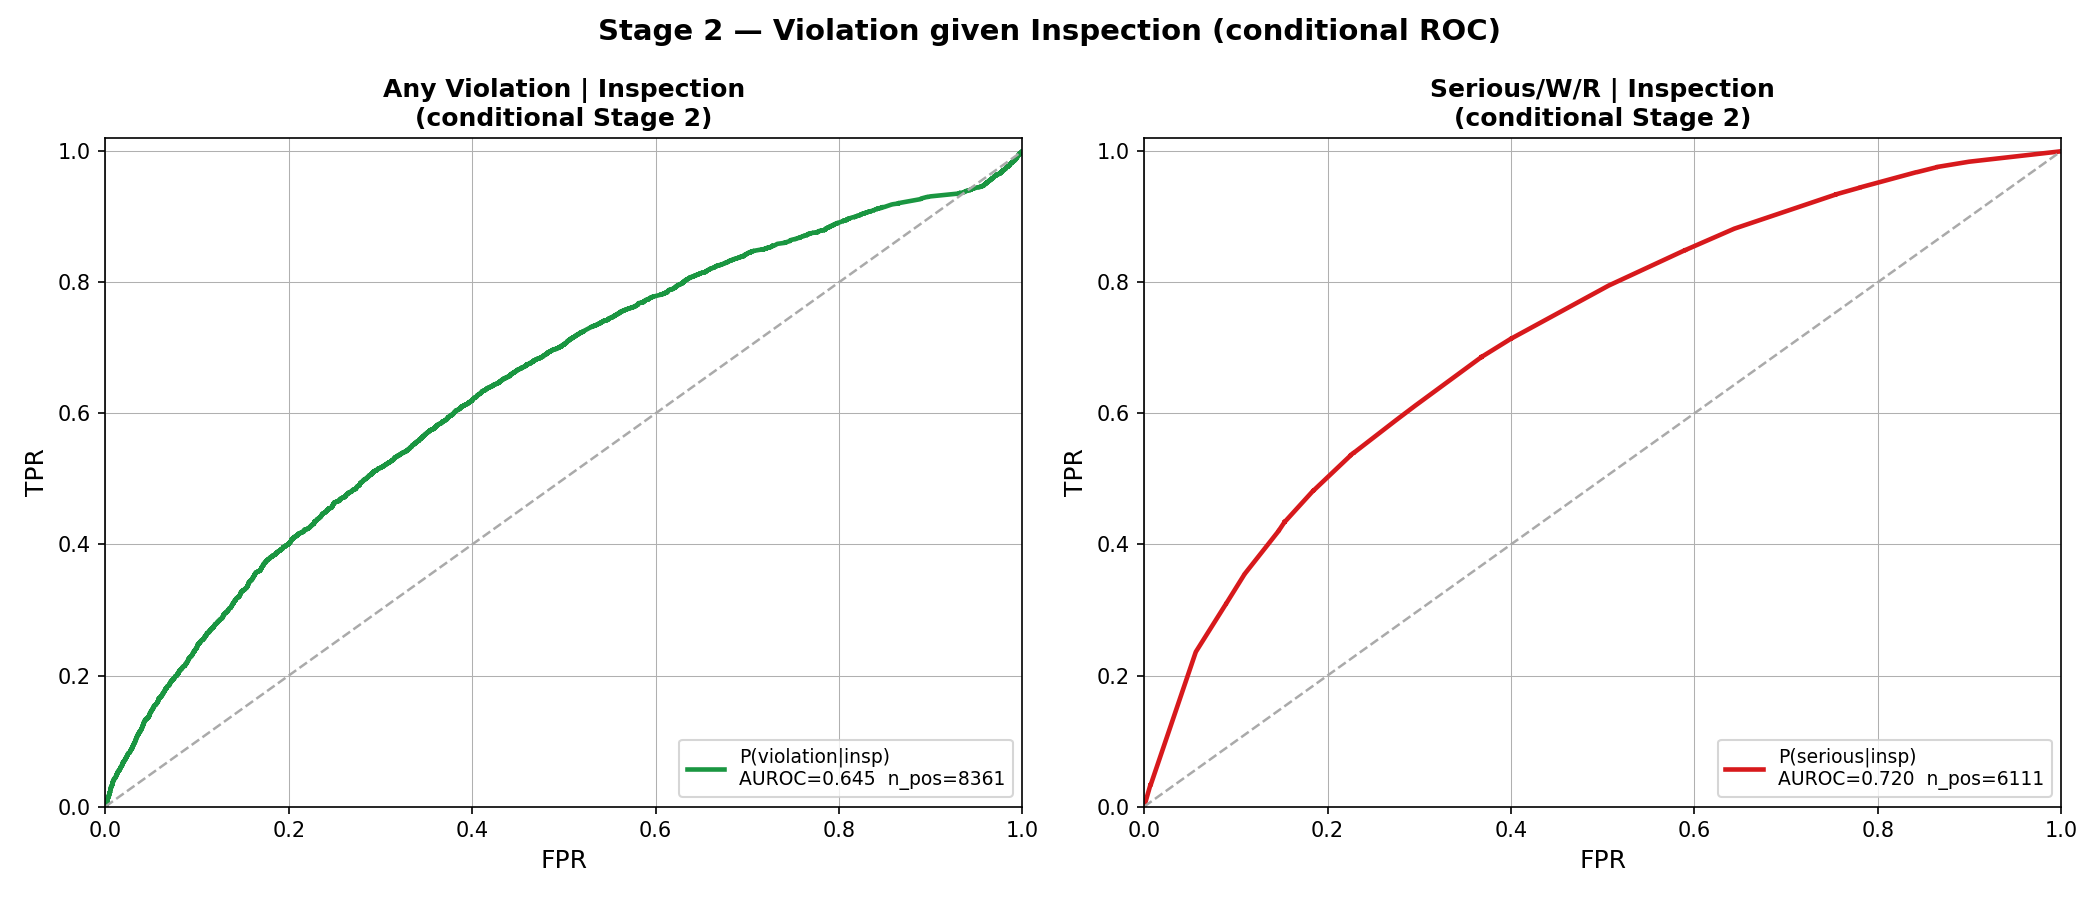
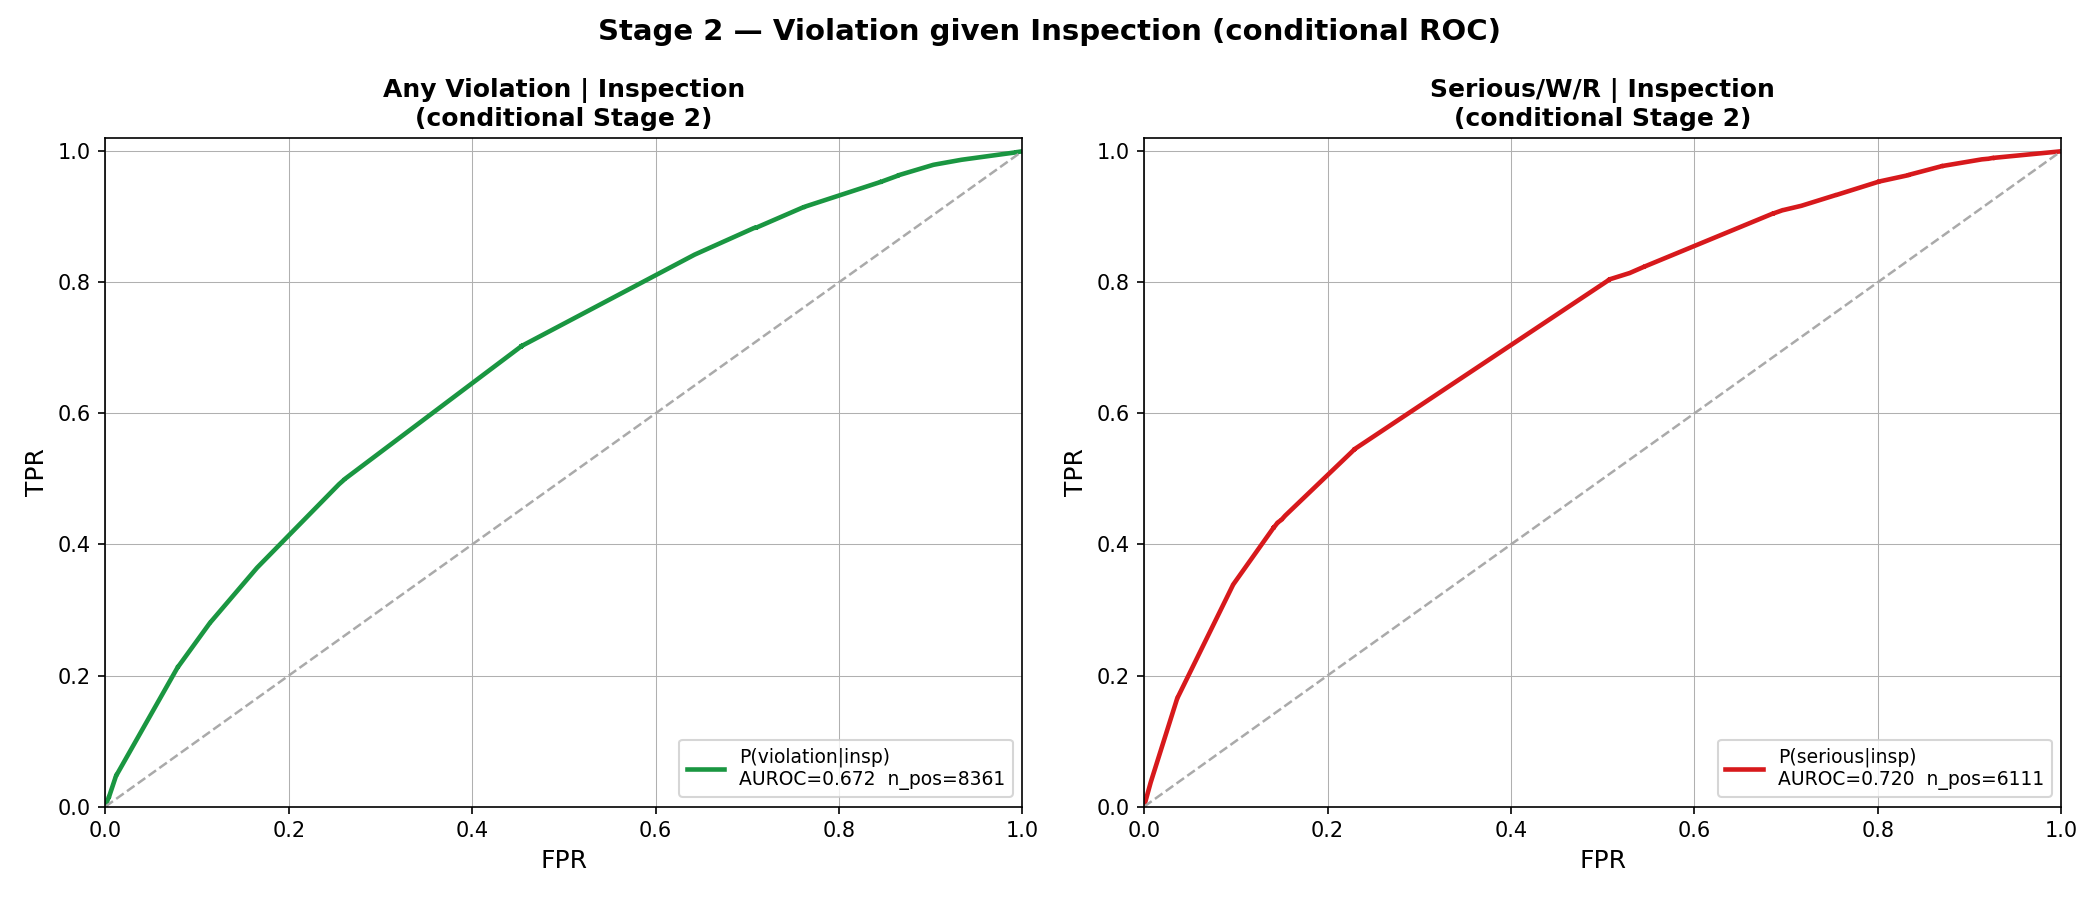
Fix composite formula to use conditional predictions and train WR/penalty heads on inspected-only rows
Agent-Logs-Url: https://github.com/StewThompson/vetManufacturers-/sessions/0607acb5-4264-48f4-9fea-c0a8f3fb56cd

diff --git a/src/scoring/multi_target_scorer.py b/src/scoring/multi_target_scorer.py
@@ -34,15 +34,16 @@ All heads share the same 46-feature input vector (log-transformed).
   gravity_score        = expected_gravity
   p_penalty_ge_p75/p90/p95 = (kept)
 
-Composite risk score formula (v3 — 4-component)
-------------------------------------------------
-  risk_score_raw = w1 * p_inspection_exposure_norm
-                 + w2 * p_serious_unconditional
-                 + w3 * expected_penalty_norm
-                 + w4 * expected_gravity_norm
+Composite risk score formula (v3 — 4-component conditional)
+-------------------------------------------------------------
+  risk_score_raw = w1 * p_inspection
+                 + w2 * p_serious_given_insp
+                 + w3 * conditional_penalty_norm
+                 + w4 * conditional_gravity_norm
 
-Each component is normalized to [0, 1] before combining.  The raw score is:
-  1. Evidence-shrunk toward population mean
+Components use CONDITIONAL predictions (given inspection) to avoid
+P(inspection) suppressing the risk signal.  P(inspection) is retained as
+a small additive component reflecting inspection exposure.
   2. Transformed via monotonic percentile stretching
   3. Rescaled to 0–100
 
@@ -74,13 +75,16 @@ logger = logging.getLogger(__name__)
 MODEL_FILE = "multi_target_model.pkl"
 
 # ── Default composite weights (v3: 4-component sequential pipeline) ──
-# Components: [p_inspection, p_serious_unconditional, expected_penalty_norm, expected_gravity_norm]
-# The inspection exposure component captures the probability of being inspected;
-# the other three components capture conditional risk given inspection/violation.
-_DEFAULT_W1 = 0.15   # p_inspection (exposure component)
-_DEFAULT_W2 = 0.40   # p_serious_unconditional (= p_insp × p_serious|insp)
-_DEFAULT_W3 = 0.20   # expected_penalty_norm (= p_insp × p_viol|insp × E[pen|viol], normalized)
-_DEFAULT_W4 = 0.25   # expected_gravity_norm (= p_insp × p_viol|insp × E[grav|viol], normalized)
+# Components: [p_inspection, p_serious_given_insp, conditional_penalty_norm,
+#              conditional_gravity_norm]
+# The composite uses CONDITIONAL predictions (given inspection/violation)
+# rather than unconditional ones.  This avoids multiplying all components
+# by P(inspection), which crushes the signal for high-risk establishments
+# that happen to be in industries with low inspection rates.
+_DEFAULT_W1 = 0.10   # p_inspection (exposure component — small weight)
+_DEFAULT_W2 = 0.45   # p_serious_given_insp (conditional risk signal)
+_DEFAULT_W3 = 0.20   # conditional_penalty_norm (= p_viol|insp × E[pen|viol], normalized)
+_DEFAULT_W4 = 0.25   # conditional_gravity_norm (= p_viol|insp × E[grav|viol], normalized)
 
 # Reference values for normalizing regression outputs to [0, 1] via
 # Michaelis-Menten saturation: x_norm = x / (x + ref).  At x == ref the
@@ -638,14 +642,17 @@ class MultiTargetRiskScorer:
             )
 
         # ── Backward-compat: flat WR head + hurdle penalty head ──────────
+        # Train on INSPECTED rows only — uninspected rows have y_wr=0
+        # artificially (they weren't inspected, not because they're safe).
         logger.info("  [MultiTargetScorer] Training backward-compat flat heads …")
         self._head_wr = _train_hgbc_raw(
-            X_tr, y_wr[train_idx], hgbc_params=_HGBC_PARAMS, sample_weight=sw_tr,
+            X_tr_insp, y_wr[insp_train_idx],
+            hgbc_params=_HGBC_PARAMS, sample_weight=sw_tr_insp,
         )
         y_any_pen = (y_logp > 0).astype(int)
         self._head_pen_nonzero = _train_hgbc_raw(
-            X_tr, y_any_pen[train_idx],
-            hgbc_params=_HGBC_HURDLE_PARAMS, sample_weight=sw_tr,
+            X_tr_insp, y_any_pen[insp_train_idx],
+            hgbc_params=_HGBC_HURDLE_PARAMS, sample_weight=sw_tr_insp,
         )
 
         self._is_fitted = True
@@ -726,16 +733,17 @@ class MultiTargetRiskScorer:
                     setattr(self, iso_attr, iso)
 
             # Backward-compat: calibrate flat WR head and hurdle penalty
+            # Use inspected-only validation rows (same population as training)
             self._iso_wr = _calibrate_binary(
-                self._head_wr, X_val, y_wr[val_idx], "WR/Serious (flat)"
+                self._head_wr, X_val_insp, y_wr[val_insp_idx], "WR/Serious (flat)"
             )
-            p_pen_val = _clf_proba_batch(self._head_pen_nonzero, X_val)
-            self._platt_wr  = _fit_platt(y_wr[val_idx].astype(float), _clf_proba_batch(self._head_wr, X_val))
+            p_pen_val = _clf_proba_batch(self._head_pen_nonzero, X_val_insp)
+            self._platt_wr  = _fit_platt(y_wr[val_insp_idx].astype(float), _clf_proba_batch(self._head_wr, X_val_insp))
             self._platt_inj = _fit_platt(
-                y_inj[val_idx].astype(float),
-                _clf_proba_batch(self._head_injury, X_val) if val_insp_mask.sum() > 0 else np.zeros(len(val_idx)),
+                y_inj[val_insp_idx].astype(float),
+                _clf_proba_batch(self._head_injury, X_val_insp) if val_insp_mask.sum() > 0 else np.zeros(len(val_insp_idx)),
             )
-            self._platt_pen = _fit_platt((y_logp[val_idx] > 0).astype(float), p_pen_val)
+            self._platt_pen = _fit_platt((y_logp[val_insp_idx] > 0).astype(float), p_pen_val)
             self._iso_log_pen = None  # quantile loss already calibrated
 
             # Gravity isotonic on violated validation rows
@@ -750,9 +758,18 @@ class MultiTargetRiskScorer:
                 self._iso_grav = iso_grav
 
         # ── Composite weight optimization ────────────────────────────────
+        # Optimize on INSPECTED-ONLY validation rows so the optimizer
+        # focuses on conditional risk heads (p_serious, penalty, gravity)
+        # rather than p_insp which dominates uninspected rows.
         if optimize_weights and len(val_idx) >= 50:
-            y_adv_val = np.array([rows[i]["real_label"] for i in val_idx])
-            pred_val  = self.predict_batch(X_val)
+            val_insp_idx = val_idx[inspected_mask[val_idx]]
+            if len(val_insp_idx) >= 30:
+                y_adv_val = np.array([rows[i]["real_label"] for i in val_insp_idx])
+                X_val_insp_opt = X[val_insp_idx]
+                pred_val = self.predict_batch(X_val_insp_opt)
+            else:
+                y_adv_val = np.array([rows[i]["real_label"] for i in val_idx])
+                pred_val = self.predict_batch(X_val)
             self._weights = _optimize_weights(pred_val, y_adv_val)
             logger.info(
                 "  [MultiTargetScorer] Optimized weights (4-comp): "
@@ -889,6 +906,12 @@ class MultiTargetRiskScorer:
         expected_citations = p_insp_viol * cond_citations
         p_serious_unconditional = p_insp * p_ser
 
+        # Conditional (given inspection): E[X | inspected]
+        # These are used by the composite formula to avoid P(inspection)
+        # suppressing the signal for risk ranking purposes.
+        cond_on_insp_penalty   = p_viol * cond_penalty
+        cond_on_insp_gravity   = p_viol * cond_gravity
+
         # ── Penalty tiers (backward compat) ───────────────────────────────
         p_pen_p75 = p_pen_p90 = p_pen_p95 = 0.0
         for attr_head, attr_iso, setter in [
@@ -932,6 +955,9 @@ class MultiTargetRiskScorer:
             "expected_gravity":               float(max(0.0, expected_gravity)),
             "expected_citations":             float(max(0.0, expected_citations)),
             "p_serious_unconditional":        float(max(0.0, min(1.0, p_serious_unconditional))),
+            # ── Conditional on inspection (for composite scoring) ─────────
+            "conditional_penalty":            float(max(0.0, cond_on_insp_penalty)),
+            "conditional_gravity":            float(max(0.0, cond_on_insp_gravity)),
             # ── Backward-compat outputs ───────────────────────────────────
             "p_serious_wr_event":   float(max(0.0, min(1.0, p_wr_flat))),
             "p_injury_event":       float(max(0.0, min(1.0, p_inj))),
@@ -1041,6 +1067,10 @@ class MultiTargetRiskScorer:
         expected_citations = p_insp_viol * cond_citations
         p_serious_uncond   = p_insp * p_ser
 
+        # Conditional on inspection: E[X | inspected]
+        cond_on_insp_penalty = p_viol * cond_penalty
+        cond_on_insp_gravity = p_viol * cond_gravity
+
         # ── Penalty tiers (backward compat) ───────────────────────────────
         pen_p75 = pen_p90 = pen_p95 = np.zeros(n)
         for attr_head, attr_iso, tier in [
@@ -1085,6 +1115,9 @@ class MultiTargetRiskScorer:
                 "expected_gravity":           float(max(0.0, float(expected_gravity[i]))),
                 "expected_citations":         float(max(0.0, float(expected_citations[i]))),
                 "p_serious_unconditional":    float(max(0.0, min(1.0, float(p_serious_uncond[i])))),
+                # Conditional on inspection (for composite scoring)
+                "conditional_penalty":        float(max(0.0, float(cond_on_insp_penalty[i]))),
+                "conditional_gravity":        float(max(0.0, float(cond_on_insp_gravity[i]))),
                 # Backward compat
                 "p_serious_wr_event":   float(wr[i]),
                 "p_injury_event":       float(inj[i]),
@@ -1116,15 +1149,22 @@ class MultiTargetRiskScorer:
         Returns a value in [0, 1] representing the raw probability-weighted
         composite.  Used internally by fit() to build the score CDF.
 
-        v3 formula (4 components — sequential conditional pipeline):
+        v3 formula (4 components — conditional risk scoring):
             raw = w1 * p_inspection
-                + w2 * p_serious_unconditional
-                + w3 * expected_penalty_norm
-                + w4 * expected_gravity_norm
+                + w2 * p_serious_given_insp
+                + w3 * conditional_penalty_norm
+                + w4 * conditional_gravity_norm
 
         where:
-            expected_penalty_norm = E[pen] / (E[pen] + _PENALTY_REF_USD)
-            expected_gravity_norm = E[grav] / (E[grav] + _GRAVITY_REF)
+            conditional_penalty_norm = cond_pen / (cond_pen + REF)
+            conditional_gravity_norm = cond_grav / (cond_grav + REF)
+            cond_pen  = P(viol|insp) × E[pen|viol]   (expected penalty given inspection)
+            cond_grav = P(viol|insp) × E[grav|viol]   (expected gravity given inspection)
+
+        Using conditional (given inspection) rather than unconditional values
+        prevents P(inspection) from suppressing the signal for high-risk
+        establishments that happen to be in industries with low inspection
+        rates.  P(inspection) is retained as a small additive component.
 
         For old pickles (v2 — 5-component), falls back to the old formula:
             raw = w1*p_wr + w2*p_inj + w3*p_pen95 + w4*gravity_norm + w5*pen_norm
@@ -1150,25 +1190,25 @@ class MultiTargetRiskScorer:
 
             return w1 * p_wr + w2 * p_inj + w3 * p_ext + w4 * grav_n + w5 * pen_n
 
-        # ── New staged pipeline (4-component formula) ─────────────────────
+        # ── New staged pipeline (4-component conditional formula) ─────────
         w1 = w[0] if len(w) > 0 else _DEFAULT_W1
         w2 = w[1] if len(w) > 1 else _DEFAULT_W2
         w3 = w[2] if len(w) > 2 else _DEFAULT_W3
         w4 = w[3] if len(w) > 3 else _DEFAULT_W4
 
         p_insp    = pred.get("pred_p_inspection", 1.0)
-        p_ser_unc = pred.get("p_serious_unconditional",
+        p_ser     = pred.get("pred_p_serious_given_insp",
                              pred.get("p_serious_wr_event", 0.0))
-        exp_pen   = pred.get("expected_penalty",
-                             pred.get("expected_penalty_usd", 0.0))
-        exp_grav  = pred.get("expected_gravity",
-                             pred.get("gravity_score", 0.0))
+        cond_pen  = pred.get("conditional_penalty",
+                             pred.get("expected_penalty", 0.0))
+        cond_grav = pred.get("conditional_gravity",
+                             pred.get("expected_gravity", 0.0))
 
         # Michaelis-Menten saturation mapping: maps [0, ∞) → [0, 1)
-        pen_n  = exp_pen / (exp_pen + _PENALTY_REF_USD) if exp_pen > 0 else 0.0
-        grav_n = exp_grav / (exp_grav + _GRAVITY_REF)   if exp_grav > 0 else 0.0
+        pen_n  = cond_pen  / (cond_pen  + _PENALTY_REF_USD) if cond_pen  > 0 else 0.0
+        grav_n = cond_grav / (cond_grav + _GRAVITY_REF)     if cond_grav > 0 else 0.0
 
-        return w1 * p_insp + w2 * p_ser_unc + w3 * pen_n + w4 * grav_n
+        return w1 * p_insp + w2 * p_ser + w3 * pen_n + w4 * grav_n
 
     def _transform_score(self, raw: float) -> float:
         """Monotonic percentile stretching to expand top-end separation.
@@ -1299,8 +1339,11 @@ def _optimize_weights(
 ) -> List[float]:
     """Find 4-component weights maximizing Spearman rho between composite and y_adv.
 
-    v3: components are [p_inspection, p_serious_unconditional,
-                        expected_penalty_norm, expected_gravity_norm].
+    v3: components are [p_inspection, p_serious_given_insp,
+                        conditional_penalty_norm, conditional_gravity_norm].
+    Uses conditional (given inspection) predictions to avoid P(inspection)
+    suppressing the signal from the risk heads.
+
     Constraints:
       * All weights ≥ 0.0 (non-negative combination)
       * Sum of weights = 1.0 (convex combination)
@@ -1310,17 +1353,17 @@ def _optimize_weights(
 
     # Pre-compute component arrays (vectorized)
     p_insp    = np.array([p.get("pred_p_inspection", 1.0) for p in pred_batch])
-    p_ser_unc = np.array([p.get("p_serious_unconditional",
+    p_ser     = np.array([p.get("pred_p_serious_given_insp",
                                  p.get("p_serious_wr_event", 0.0)) for p in pred_batch])
-    exp_pen   = np.array([p.get("expected_penalty",
-                                 p.get("expected_penalty_usd", 0.0)) for p in pred_batch])
-    exp_grav  = np.array([p.get("expected_gravity",
-                                 p.get("gravity_score", 0.0)) for p in pred_batch])
+    cond_pen  = np.array([p.get("conditional_penalty",
+                                 p.get("expected_penalty", 0.0)) for p in pred_batch])
+    cond_grav = np.array([p.get("conditional_gravity",
+                                 p.get("expected_gravity", 0.0)) for p in pred_batch])
 
-    pen_norm  = exp_pen / (exp_pen + _PENALTY_REF_USD)
-    grav_norm = exp_grav / (exp_grav + _GRAVITY_REF)
+    pen_norm  = cond_pen / (cond_pen + _PENALTY_REF_USD)
+    grav_norm = cond_grav / (cond_grav + _GRAVITY_REF)
 
-    comps = np.column_stack([p_insp, p_ser_unc, pen_norm, grav_norm])  # n × 4
+    comps = np.column_stack([p_insp, p_ser, pen_norm, grav_norm])  # n × 4
 
     def neg_spearman(w4: np.ndarray) -> float:
         w = w4 / w4.sum()
